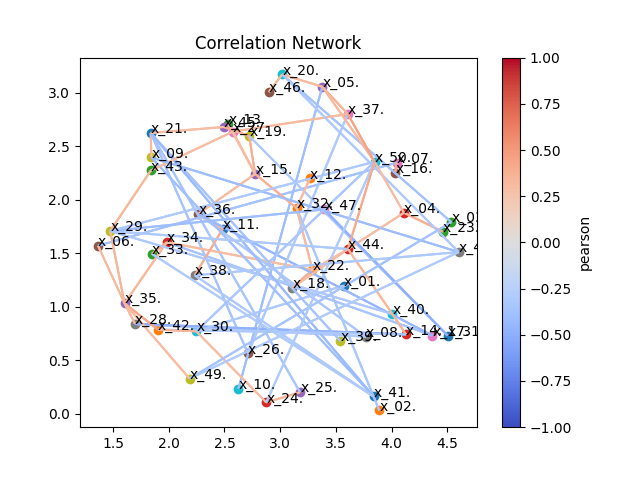
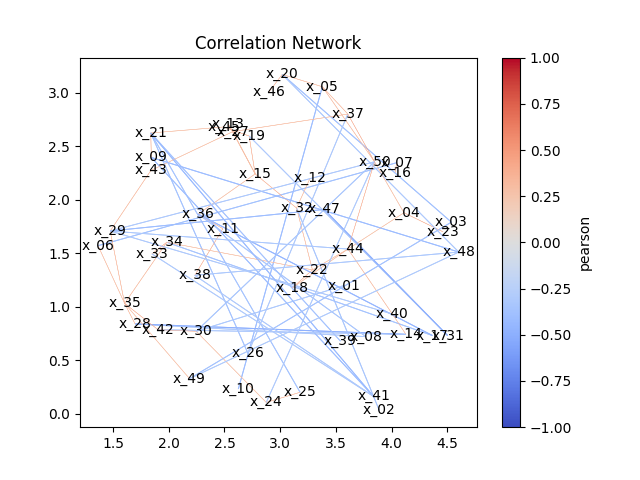
update

Changed region(s): [[0.125, 0.125, 0.75, 0.875]]

diff --git a/src/correlnet/plotter.py b/src/correlnet/plotter.py
@@ -2,31 +2,50 @@
 
 import numpy as np
 
-from typing import Sequence
+from numpy.typing import ArrayLike
+from typing import Callable
 from matplotlib import pyplot as plt
 from matplotlib.cm import ScalarMappable
 from matplotlib.collections import LineCollection
 from matplotlib.colors import CenteredNorm, Normalize
+from correlnet.segments import SegmentPlotter
 
 
 class NetworkPlotter:
     """Class to plot networks with nodes and edges via matplotlib."""
 
-    def __init__(self, annotation_kwargs: dict = None, edge_snorm=None, edge_cmap: str = "coolwarm", edge_cnorm=None, edge_cbar: bool = True, node_cmap: str = "coolwarm", node_cnorm=None, max_node_label_len: int = 5):
-        self.annotation_kwargs = dict(annotation_clip=True, clip_on=True)
+    def __init__(
+        self, annotation_kwargs: dict = None, edge_snorm: Callable = None, edge_cmap: str = "coolwarm", edge_cnorm: Callable = None, edge_cbar: bool = True, node_cmap: str = "coolwarm",
+        node_cnorm: Callable = None, shorten_node_labels: bool = True, max_node_label_len: int = 5, annotate_labels: bool = True
+    ):
+        """
+        Args:
+            annotation_kwargs (dict): keyword arguments that are passed to ax.annotate for node labeling
+            edge_snorm (Callable): used to normalize edge weights to line widths
+            edge_cmap (str): Name of the matplotlib Colormap for the edges
+            edge_cnorm (Callable): used to normalize edge weights to colors from edge_cmap
+            edge_cbar (bool): Add a colorbar for the edge weights
+            node_cmap (str): Name of the matplotlib Colormap used for nodes
+            node_cnorm: (Callable): used to normalize node colors
+            shorten_node_labels (bool): If true, will shorten node labels to max_node_label_len
+            max_node_label_len (int): maximum length of node labels
+        """
+        self.annotation_kwargs = dict(annotation_clip=True, clip_on=True, ha="center", va="center")
         if annotation_kwargs is not None:
             self.annotation_kwargs.update(annotation_kwargs)
         self.edge_cmap = plt.cm.get_cmap(edge_cmap)
         self.edge_cnorm = CenteredNorm(vcenter=0) if edge_cnorm is None else edge_cnorm
         self.edge_cbar = edge_cbar
         self.edge_snorm = Normalize(vmin=1, vmax=3) if edge_snorm is None else edge_snorm
-        self.node_cnorm = plt.cm.get_cmap(node_cmap)
-        self.node_cmap = CenteredNorm(vcenter=0) if edge_cnorm is None else edge_cnorm
+        self.node_cmap = plt.cm.get_cmap(node_cmap)
+        self.node_cnorm = CenteredNorm(vcenter=0) if edge_cnorm is None else node_cnorm
+        self.shorten_node_labels = shorten_node_labels
         self.max_node_label_len = max_node_label_len
+        self.annotate_labels = annotate_labels
 
     def plot(
-        self, pos, edge_list, node_labels: Sequence[str] = None, node_sizes: Sequence[float] = None, node_colors=None, node_markers=None,
-        edge_weights: Sequence[float] = None, edge_colors=None, edge_cbar_label: str = None, title: str = None, ax: plt.Axes = None
+        self, pos, edge_list, node_labels: ArrayLike = None, node_sizes: ArrayLike = None, node_colors=None,
+        edge_weights: ArrayLike = None, edge_colors=None, edge_c=None, edge_cbar_label: str = None, ax: plt.Axes = None
     ) -> plt.Axes:
         """
         Plots a network via matplotlib.
@@ -45,42 +64,39 @@ class NetworkPlotter:
         """
         if ax is None:
             fig, ax = plt.subplots()
-        self.plot_edges(ax, pos, edge_list, edge_weights, edge_colors, edge_cbar_label)
-        self.plot_nodes(ax, pos, node_sizes, node_colors, node_markers)
-        if node_labels is not None:
+        self.plot_edges(ax, pos, edge_list, edge_weights, edge_colors, edge_c, edge_cbar_label)
+        self.plot_nodes(ax, pos, node_sizes, node_colors)
+        if node_labels is not None and self.annotate_labels:
             self.label_nodes(ax, pos, node_labels)
-        if title is not None:
-            ax.set_title(title)
+        ax.autoscale()
         return ax
 
-    def plot_edges(self, ax: plt.Axes, pos, edge_list, edge_weights=None, edge_colors=None, edge_cbar_label: str = None):
+    def plot_edges(self, ax: plt.Axes, pos, edge_list, edge_weights=None, edge_colors=None, edge_c=None, edge_cbar_label: str = None):
         """Adds the edges to the plot."""
-        segments = [(pos[i], pos[j]) for i, j in edge_list]
-        colors = None
-        if edge_colors is not None:
-            colors = self.edge_cmap(self.edge_cnorm(edge_colors))
-            if self.edge_cbar:
-                mappable = ScalarMappable(self.edge_cnorm, self.edge_cmap)
-                plt.colorbar(mappable, ax=ax, label=edge_cbar_label)
+        segments = np.array([(pos[i], pos[j]) for i, j in edge_list])
+        x, y = segments[:, 0].T
+        x_end, y_end = segments[:, 1].T
+        if edge_c is not None and self.edge_cbar:
+            mappable = ScalarMappable(self.edge_cnorm, self.edge_cmap)
+            plt.colorbar(mappable, ax=ax, label=edge_cbar_label)
         linewidths = edge_weights
         if linewidths is not None:
             linewidths = self.edge_snorm(linewidths)
-        edges = LineCollection(segments, linewidths=linewidths, colors=colors)
-        ax.add_collection(edges)
+        segment_plotter = SegmentPlotter()
+        segment_plotter.plot(x, y, x_end, y_end, linewidths, colors=edge_colors, c=edge_c, cmap=self.edge_cmap, norm=self.edge_cnorm, ax=ax)
 
-    def plot_nodes(self, ax: plt.Axes, pos, node_sizes=None, node_colors=None, node_markers=None):
+    def plot_nodes(self, ax: plt.Axes, pos, node_sizes=None, node_colors=None):
         """Adds the nodes to the plot."""
-        for i, (x, y) in enumerate(pos):
-            x, y = pos[i]
-            marker = node_markers[i] if node_markers is not None else None
-            s = node_sizes[i] if node_sizes is not None else None
-            c = node_colors[i] if node_colors is not None else None
-            ax.scatter(x, y, s=s, c=c, marker=marker, norm=self.node_cnorm, cmap=self.node_cmap)
+        x, y = np.array(pos).T
+        if node_colors is None:
+            ax.scatter(x, y, s=node_sizes)
+        else:
+            ax.scatter(x, y, s=node_sizes, c=node_colors, norm=self.node_cnorm, cmap=self.node_cmap)
 
     def label_nodes(self, ax: plt.Axes, pos, node_labels):
         """Annotates each node with the corresponding labels."""
         assert len(pos) == len(node_labels)
         for i, label in enumerate(node_labels):
-            if self.max_node_label_len >= 0:
+            if self.shorten_node_labels and self.max_node_label_len >= 0 and len(label) > self.max_node_label_len:
                 label = f"{label[:self.max_node_label_len]}."
             ax.annotate(label, pos[i], **self.annotation_kwargs)

diff --git a/src/correlnet/segments.py b/src/correlnet/segments.py
@@ -1,0 +1,76 @@
+"""
+Plot line segments.
+"""
+
+import matplotlib.pyplot as plt
+import numpy as np
+import pandas as pd
+
+from typing import Union
+from matplotlib.collections import LineCollection
+from matplotlib.colors import Normalize, to_rgba_array, Colormap
+from matplotlib.typing import ColorType
+from numpy.typing import ArrayLike
+
+
+class SegmentPlotter:
+
+    def plot(
+        self, x: ArrayLike, y: ArrayLike, x_end: ArrayLike, y_end: ArrayLike, linewidths=1,
+        colors: Union[ColorType | ArrayLike] = None, c: ArrayLike = None, alpha=1,
+        cmap: Union[str, Colormap] = "viridis", norm: Normalize = None, ax: plt.Axes = None
+    ) -> plt.Axes:
+        """
+        Plots line segments, similar to ggplot's geom_segments. 
+
+        Args:
+            x (ArrayLike): x values of the segment starting points
+            y (ArrayLike): y values of the segment starting points
+            x_end (ArrayLike): x values of the segment end points
+            y_end (ArrayLike): y values of the segment end points 
+            linewidths (ArrayLike): line strengths of the segments
+            colors (ColorType|ArrayLike[ColorType]): matplotlib colors of the segments
+            c (ArrayLike): floats to be mapped to colors via cmap and norm
+            cmap (ColorMap): Colormap for mapping c
+            norm (Normalize): Normalization function for mapping c
+            ax (Axes): matplotlib Axes to add the segments to
+        """
+
+        if ax is None:
+            fig, ax = plt.subplots()
+
+        lines = self.line_collection(x, y, x_end, y_end, linewidths, colors, c=c, alpha=alpha, cmap=cmap, norm=norm)
+        ax.add_collection(lines)
+        ax.autoscale()
+        return ax
+
+    def plot_df(
+            self, df: pd.DataFrame, x: str, y: str, x_end: str, y_end: str,
+            linewidths: str = None, colors: str = None, c: str = None, alpha: str = None, cmap="viridis", norm=None, ax=None
+    ) -> plt.Axes:
+        """
+        seaborn-like interface, similar to ggplot geom_segments.
+        """
+        x = df[x]
+        y = df[y]
+        x_end = df[x_end]
+        y_end = df[y_end]
+        alpha = 1 if alpha is None else df[alpha]
+        linewidths = 1 if linewidths is None else df[linewidths]
+        colors = "black" if colors is None else df[colors]
+        c = None if c is None else df[c]
+        return self.plot(x, y, x_end, y_end, linewidths=linewidths, colors=colors, alpha=alpha, cmap=cmap, norm=norm, ax=ax)
+
+    def line_collection(self, x, y, x_end, y_end, linewidths=1, colors=None, c=None, alpha=1, cmap="viridis", norm=None) -> LineCollection:
+        """Creates a new line collection."""
+        assert len(x) == len(y)
+        assert len(x) == len(x_end)
+        assert len(y) == len(y_end)
+        cmap = plt.cm.get_cmap(cmap)
+        norm = Normalize() if norm is None else norm
+        # a little silly, but LineCollection does not allow single ints/floats for colors, even if cmap and norm are provided
+        if c is not None and colors is None:
+            colors = cmap(norm(c))
+        segments = [[(x0, y0), (x1, y1)] for x0, y0, x1, y1 in zip(x, y, x_end, y_end)]
+        lines = LineCollection(segments, linewidths=linewidths, colors=colors, cmap=cmap, norm=norm, alpha=alpha)
+        return lines

diff --git a/src/correlnet/correlnet.py b/src/correlnet/correlnet.py
@@ -88,17 +88,19 @@ class CorrelNet:
         df = self.correl_df[self.correl_df["pvalue"] <= self.alpha]
         edge_list = [(self.vars.index(var_1), self.vars.index(var_2)) for var_1, var_2 in df.index]
         edge_colors = df["statistic"]
+        edge_weights = df["statistic"]
         edge_cbar_label = self.correlater.method
-        self.plotter.plot(pos, edge_list, node_labels, edge_colors=edge_colors, edge_cbar_label=edge_cbar_label)
+        self.plotter.plot(pos, edge_list, node_labels, edge_c=edge_colors, edge_weights=edge_weights, edge_cbar_label=edge_cbar_label)
         return ax
 
-    def as_netx_graph(self, apply_filter=True) -> nx.Graph:
+    def to_graph(self, apply_filter=True) -> nx.Graph:
         """Returns correlations as networkx graph with attributes [statistic, pvalue].
 
         Args:
             apply_filter (bool): If true, apply an edge filter to remove self loops and non-significant edges
         """
-        graph = nx.from_pandas_edgelist(self.correl_df, source="var_1", target="var_2", edge_attr=True)
+        df = self.correl_df.reset_index(names=["var_1", "var_2"])
+        graph = nx.from_pandas_edgelist(df, source="var_1", target="var_2", edge_attr=True)
 
         if apply_filter:
             logger.debug(f"applying edge filter with alpha={self.alpha}")

diff --git a/src/correlnet/__main__.py b/src/correlnet/__main__.py
@@ -22,6 +22,8 @@ def main():
     parser.add_argument("--columns", type=str, nargs="+", help="columns to plot")
     parser.add_argument("--index-col", action="store_true", help="index column?")
     parser.add_argument("--title", type=str, default="Correlation Network", help="figure title")
+    parser.add_argument("--pos", choices=["random", "var_tsne", "correl_tsne"], default="var_tsne", help="method to compute node positions")
+    parser.add_argument("--method", choices=["pearson", "spearman", "kendall"], default="pearson", help="method to compute correlations")
     parser.add_argument("--alpha", type=float, default=0.05, help="significance threshold")
     parser.add_argument("--perplexity", type=int, default=30, help="tsne perplexity")
     parser.add_argument("--seed", type=int, default=19, help="rng seed")
@@ -39,7 +41,7 @@ def main():
     df = pd.read_csv(args.input, index_col=args.index_col)
 
     tsne_kwargs = {"perplexity": args.perplexity}
-    cg = correlnet(df, tsne_kwargs=tsne_kwargs, random_state=args.seed, alpha=args.alpha)
+    cg = correlnet(df, tsne_kwargs=tsne_kwargs, random_state=args.seed, alpha=args.alpha, method=args.method, embedding=args.pos)
 
     print("plotting")
 

diff --git a/src/correlnet/correlater.py b/src/correlnet/correlater.py
@@ -34,13 +34,11 @@ class Correlater:
                 corr = dict(var_1=var_1, var_2=var_2, statistic=statistic, pvalue=pvalue)
                 cor_dfs.append(pd.DataFrame([corr]))
         correl_df = pd.concat(cor_dfs).set_index(["var_1", "var_2"])
-        print(correl_df.head())
 
         if self.correction:
             logger.debug(f"applying {self.correction}")
             _, p_corrected, _, _ = multipletests(correl_df["pvalue"], method=self.correction)
             correl_df["pvalue"] = p_corrected
-        print(correl_df.head())
         return correl_df
 
     def cor_fn(self):
